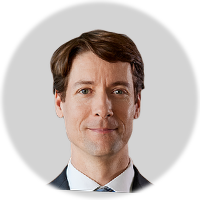
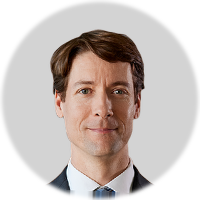
photos: use the real originals, not the tight crops of them
Kaivan and Karol looked stretched because they were being rebuilt from
cropped-kaivan_kamali.png and cropped-karol_pal.png -- the same photos cut down
to the head, ending just below the collar. There was no shirt left to fill the
disc, so the extension had to invent one. The uncropped originals were sitting
beside them all along at 1100x1100 and 1280x1058, with the whole shirt in frame.

Face matching chose the crops because it ranked candidates by how many pixels
wide the face was, which a tight crop wins by definition while being the worse
source. Worth remembering: for this job the biggest face is not the best photo.

Checked the other twelve the same way. Two had larger files available and both
are the linnea trap again -- byung_june at 2527x2532 and lauren_heverly at
4032x3024 are each a small circular avatar centred on a black canvas, derived
rather than original. Rejected. No one else has anything bigger.

Adam Phillippy joins them, from a real 200x200 rather than the published crop,
which stops his suit being cut off. Nothing larger than 200x200 exists for him
anywhere in the archive, so he is the one person here who gains no resolution.
He is a collaborator, so the registry now records which collection a person
belongs to and the portrait is written to static/img/collaborator/.

Changed region(s): [[0.3, 0.93, 0.69, 1.0]]

diff --git a/scripts/portraits.py b/scripts/portraits.py
@@ -931,7 +931,10 @@ def main(
     after the member, e.g. linnea_smeds.jpg for content/member/linnea_smeds.md.
     """
     inbox = inbox or repo_root() / "photos" / "inbox"
-    out = out or repo_root() / "static" / "img" / "member"
+    # Where a portrait lands depends on whether the person is a lab member or a
+    # collaborator, which is recorded per person. An explicit --out overrides
+    # that for the whole run.
+    out_given = out is not None
 
     registry = load_registry()
 
@@ -959,22 +962,26 @@ def main(
         )
         return
 
-    out.mkdir(parents=True, exist_ok=True)
     processed: list[str] = []
     skipped: list[tuple[str, str]] = []
 
     size_given = ctx.get_parameter_source("size") is ParameterSource.COMMANDLINE
 
     for member, path in selected:
-        # content/member/<id>.md expects the portrait to be <id>.png
-        destination = out / f"{member}.png"
+        # Per-person settings, overridden by anything given on the command line.
+        entry = registry.get(member, {})
+
+        # content/<collection>/<id>.md expects the portrait to be <id>.png in the
+        # matching image folder.
+        folder = out if out_given else (
+            repo_root() / "static" / "img" / entry.get("collection", "member")
+        )
+        folder.mkdir(parents=True, exist_ok=True)
+        destination = folder / f"{member}.png"
         if destination.exists() and not force:
             reason = f"{destination.name} already exists. Re-run with --force to replace it."
             skipped.append((path.name, reason))
             continue
-
-        # Per-person settings, overridden by anything given on the command line.
-        entry = registry.get(member, {})
 
         # How big a portrait can usefully be is a property of the photo, so it
         # is normally measured from it. A recorded size overrides that for the
